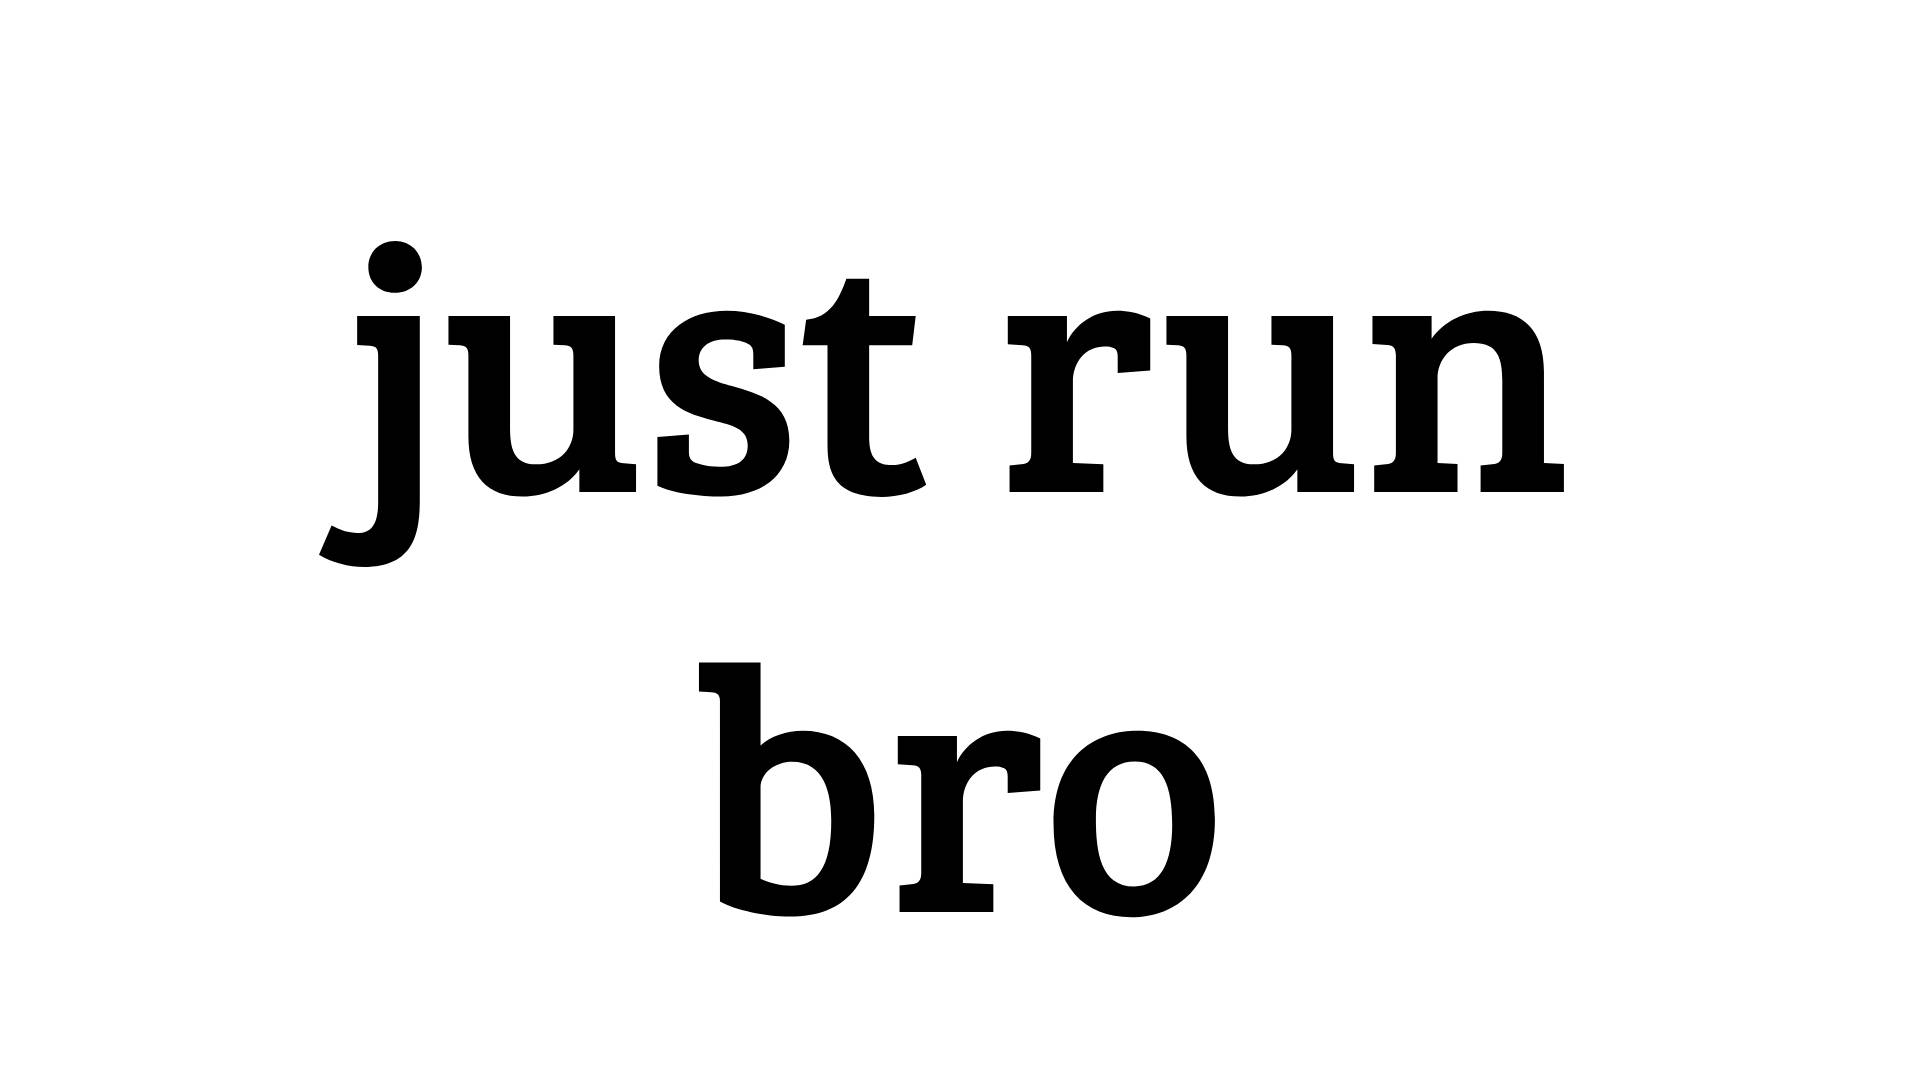
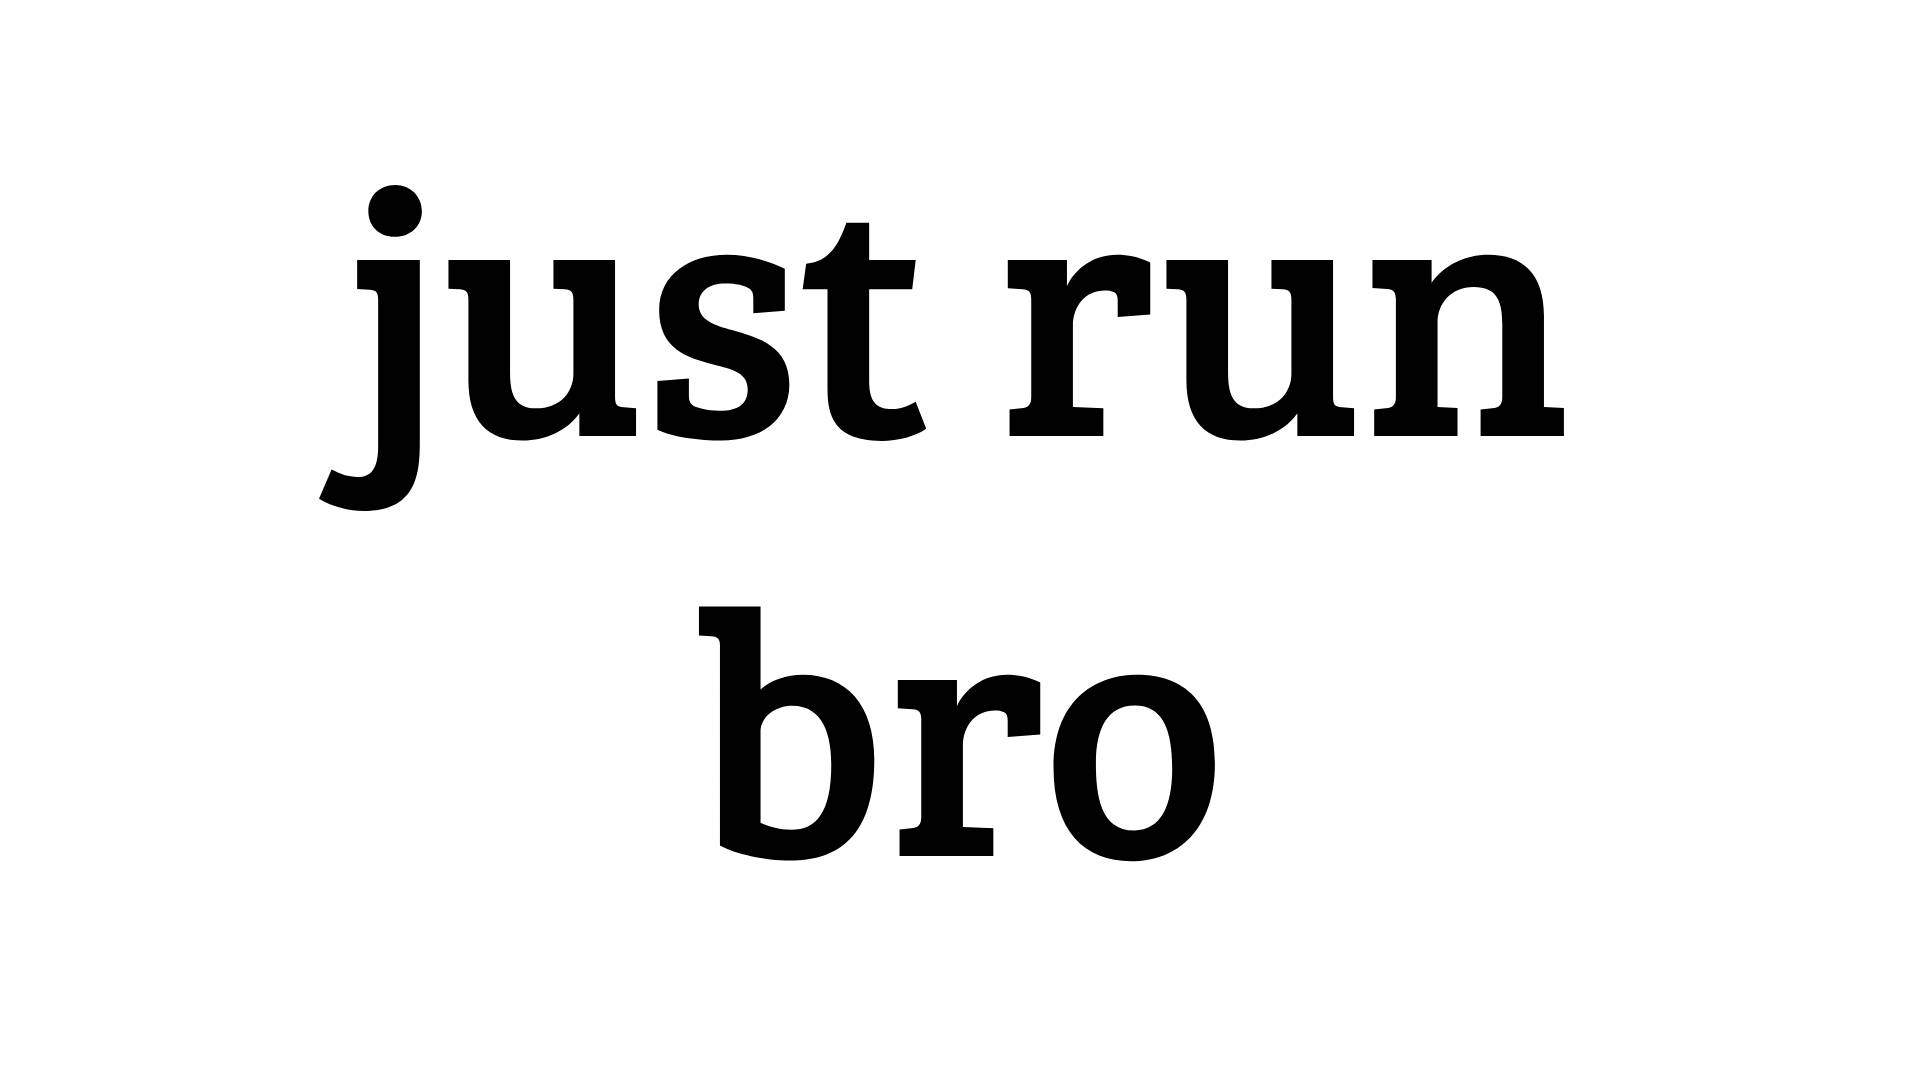
Events guide updates

Changed region(s): [[0.1875, 0.1528, 0.8125, 0.4583], [0.3438, 0.55, 0.6562, 0.8556], [0.1562, 0.4278, 0.2188, 0.5194]]

diff --git a/README.md b/README.md
@@ -166,6 +166,14 @@ Names and slugs are matched ignoring case. While you run the site locally, a not
 appears if an entry matches nobody, a link can't be read as YouTube, or a file isn't
 where you said it is, so a typo doesn't just make something silently not show.
 
+Replacing a photo, GIF or video **in place** (same filename, new content) may not show
+the new one, even after a hard refresh or an incognito window: Turbopack's dev cache
+(`.next/cache/turbopack`, tens of megabytes, persisted to disk) can hold onto the old
+resized output for that file path. Restarting `next dev` alone does **not** clear it —
+that cache is reloaded from disk on startup, not rebuilt. Give the new file a different
+name (and update the reference) to sidestep it entirely, or, if you want to keep the
+name, stop the server and run `rm -rf .next/cache/turbopack` before starting it again.
+
 The competitive **Events** tab (standings, leaders) and this guide link to each other.
 
 ## CSV format
